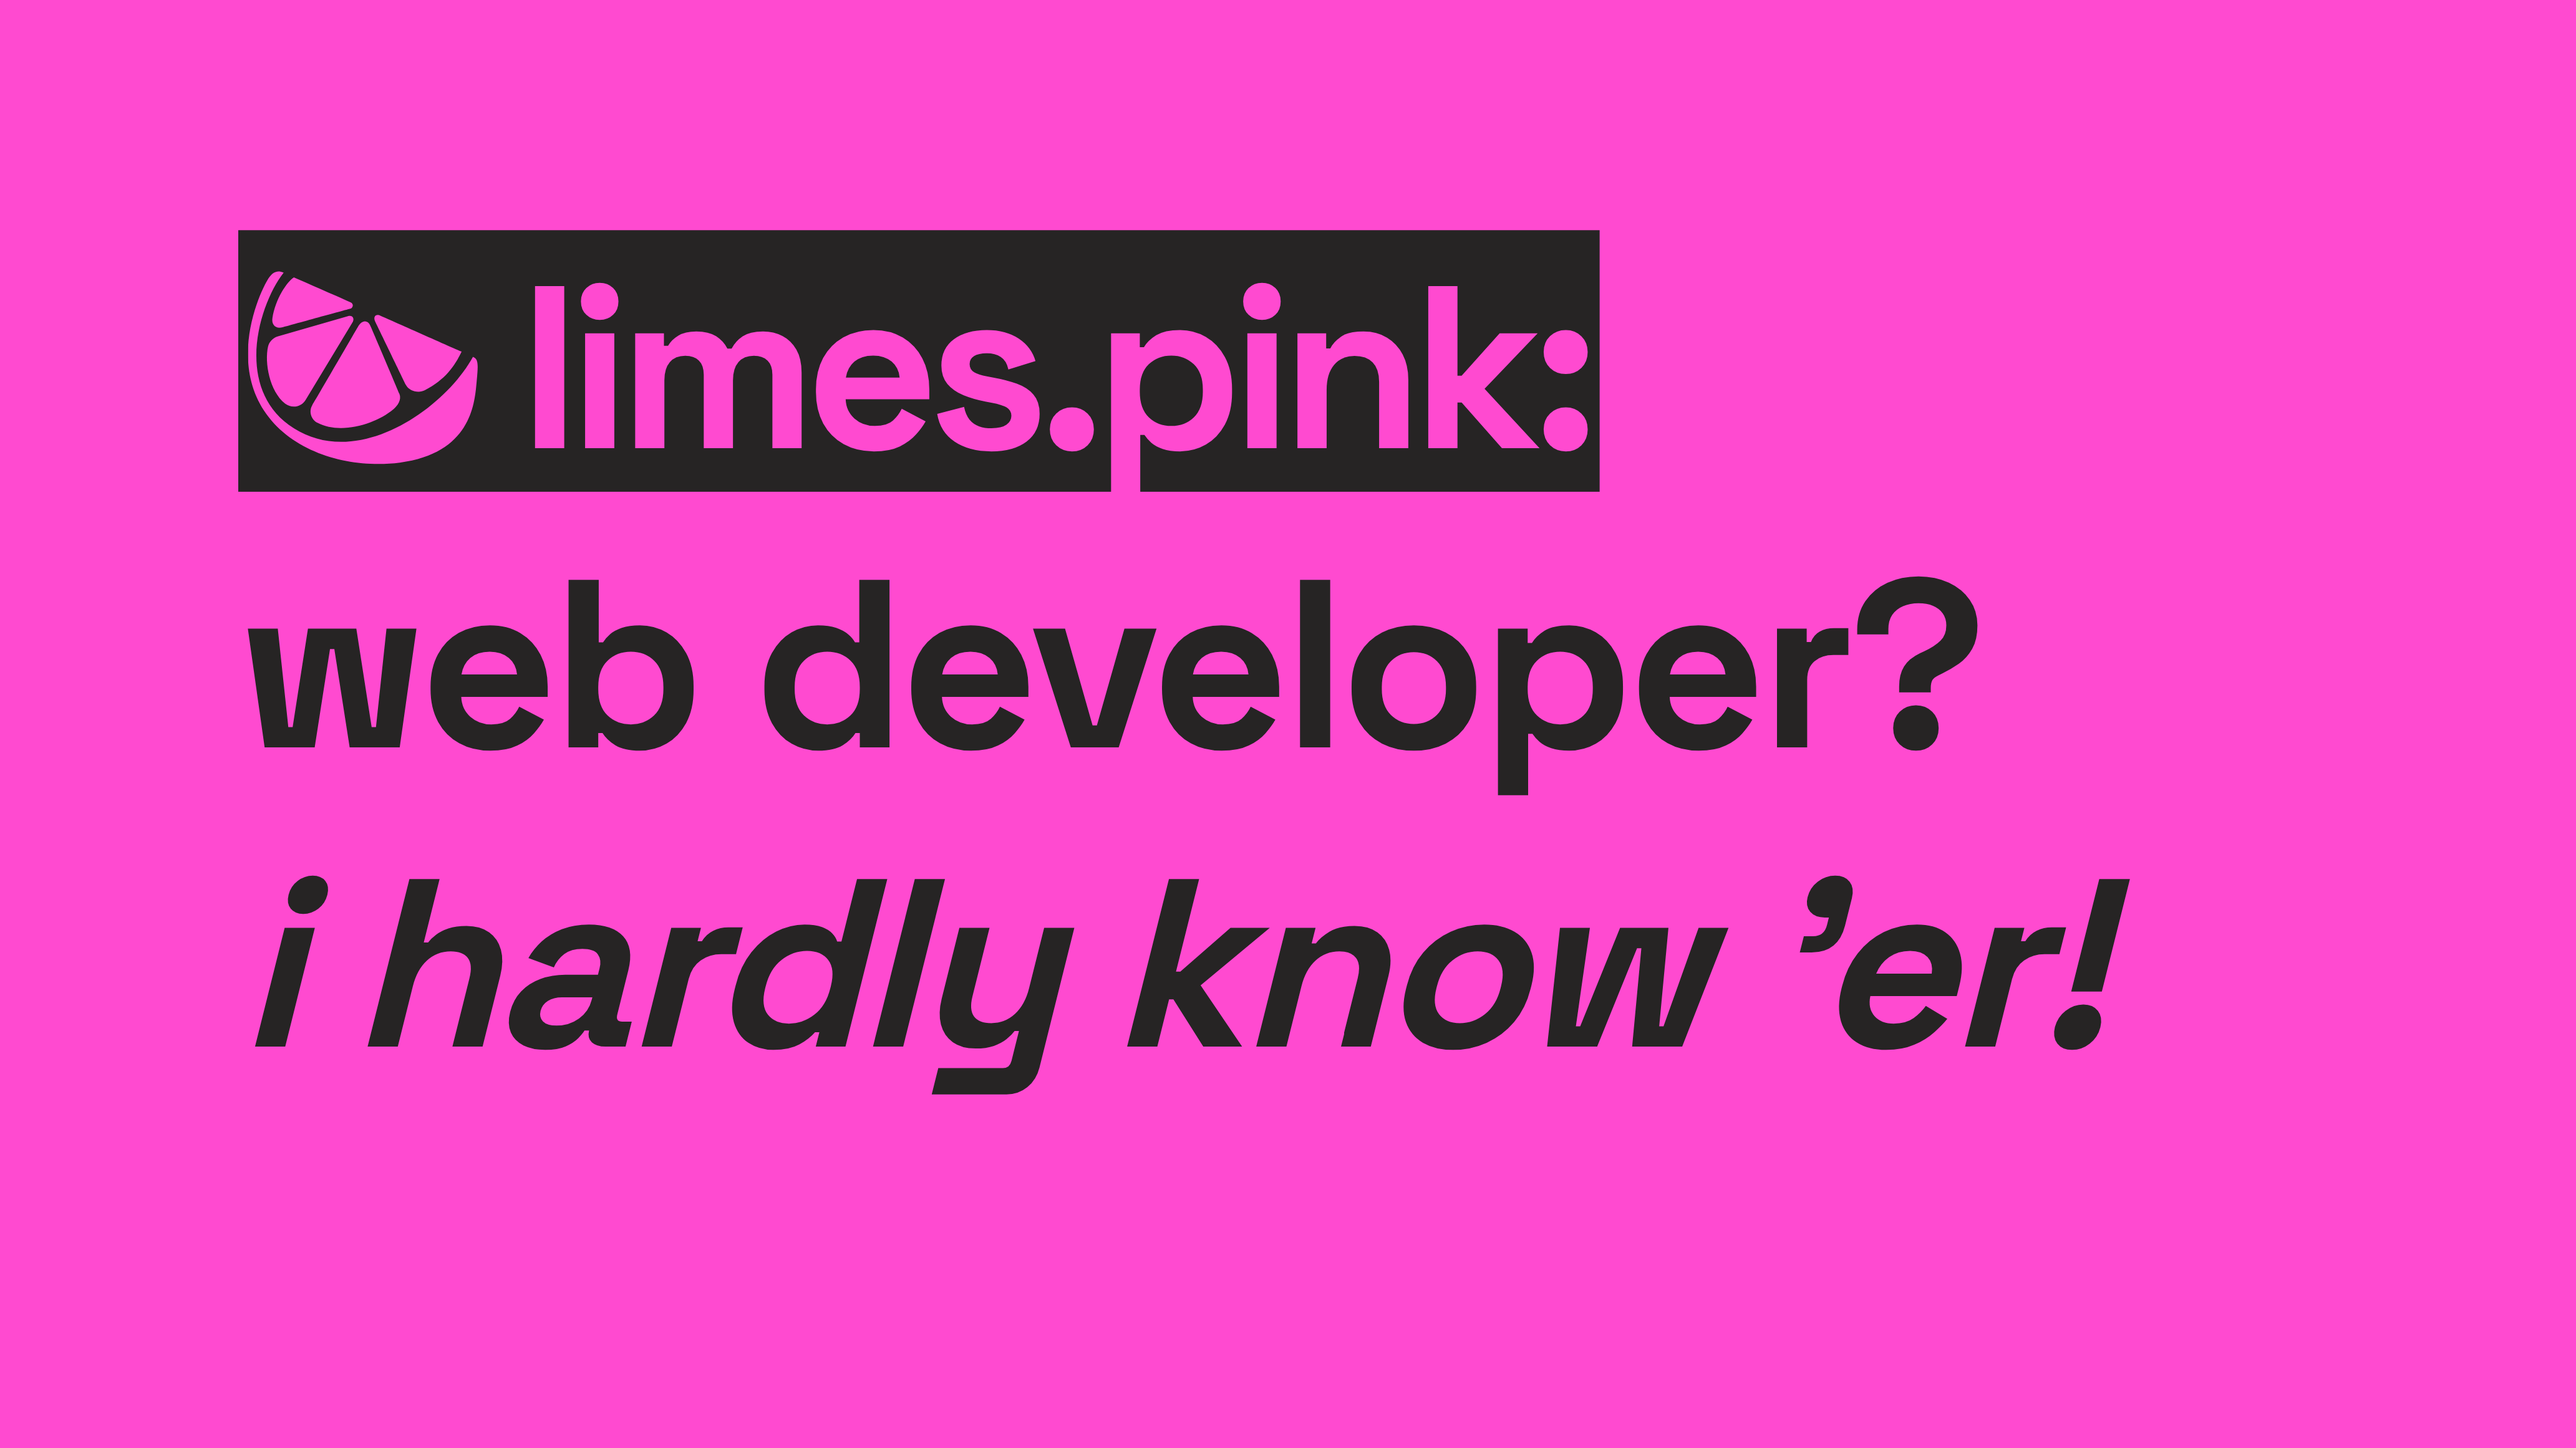
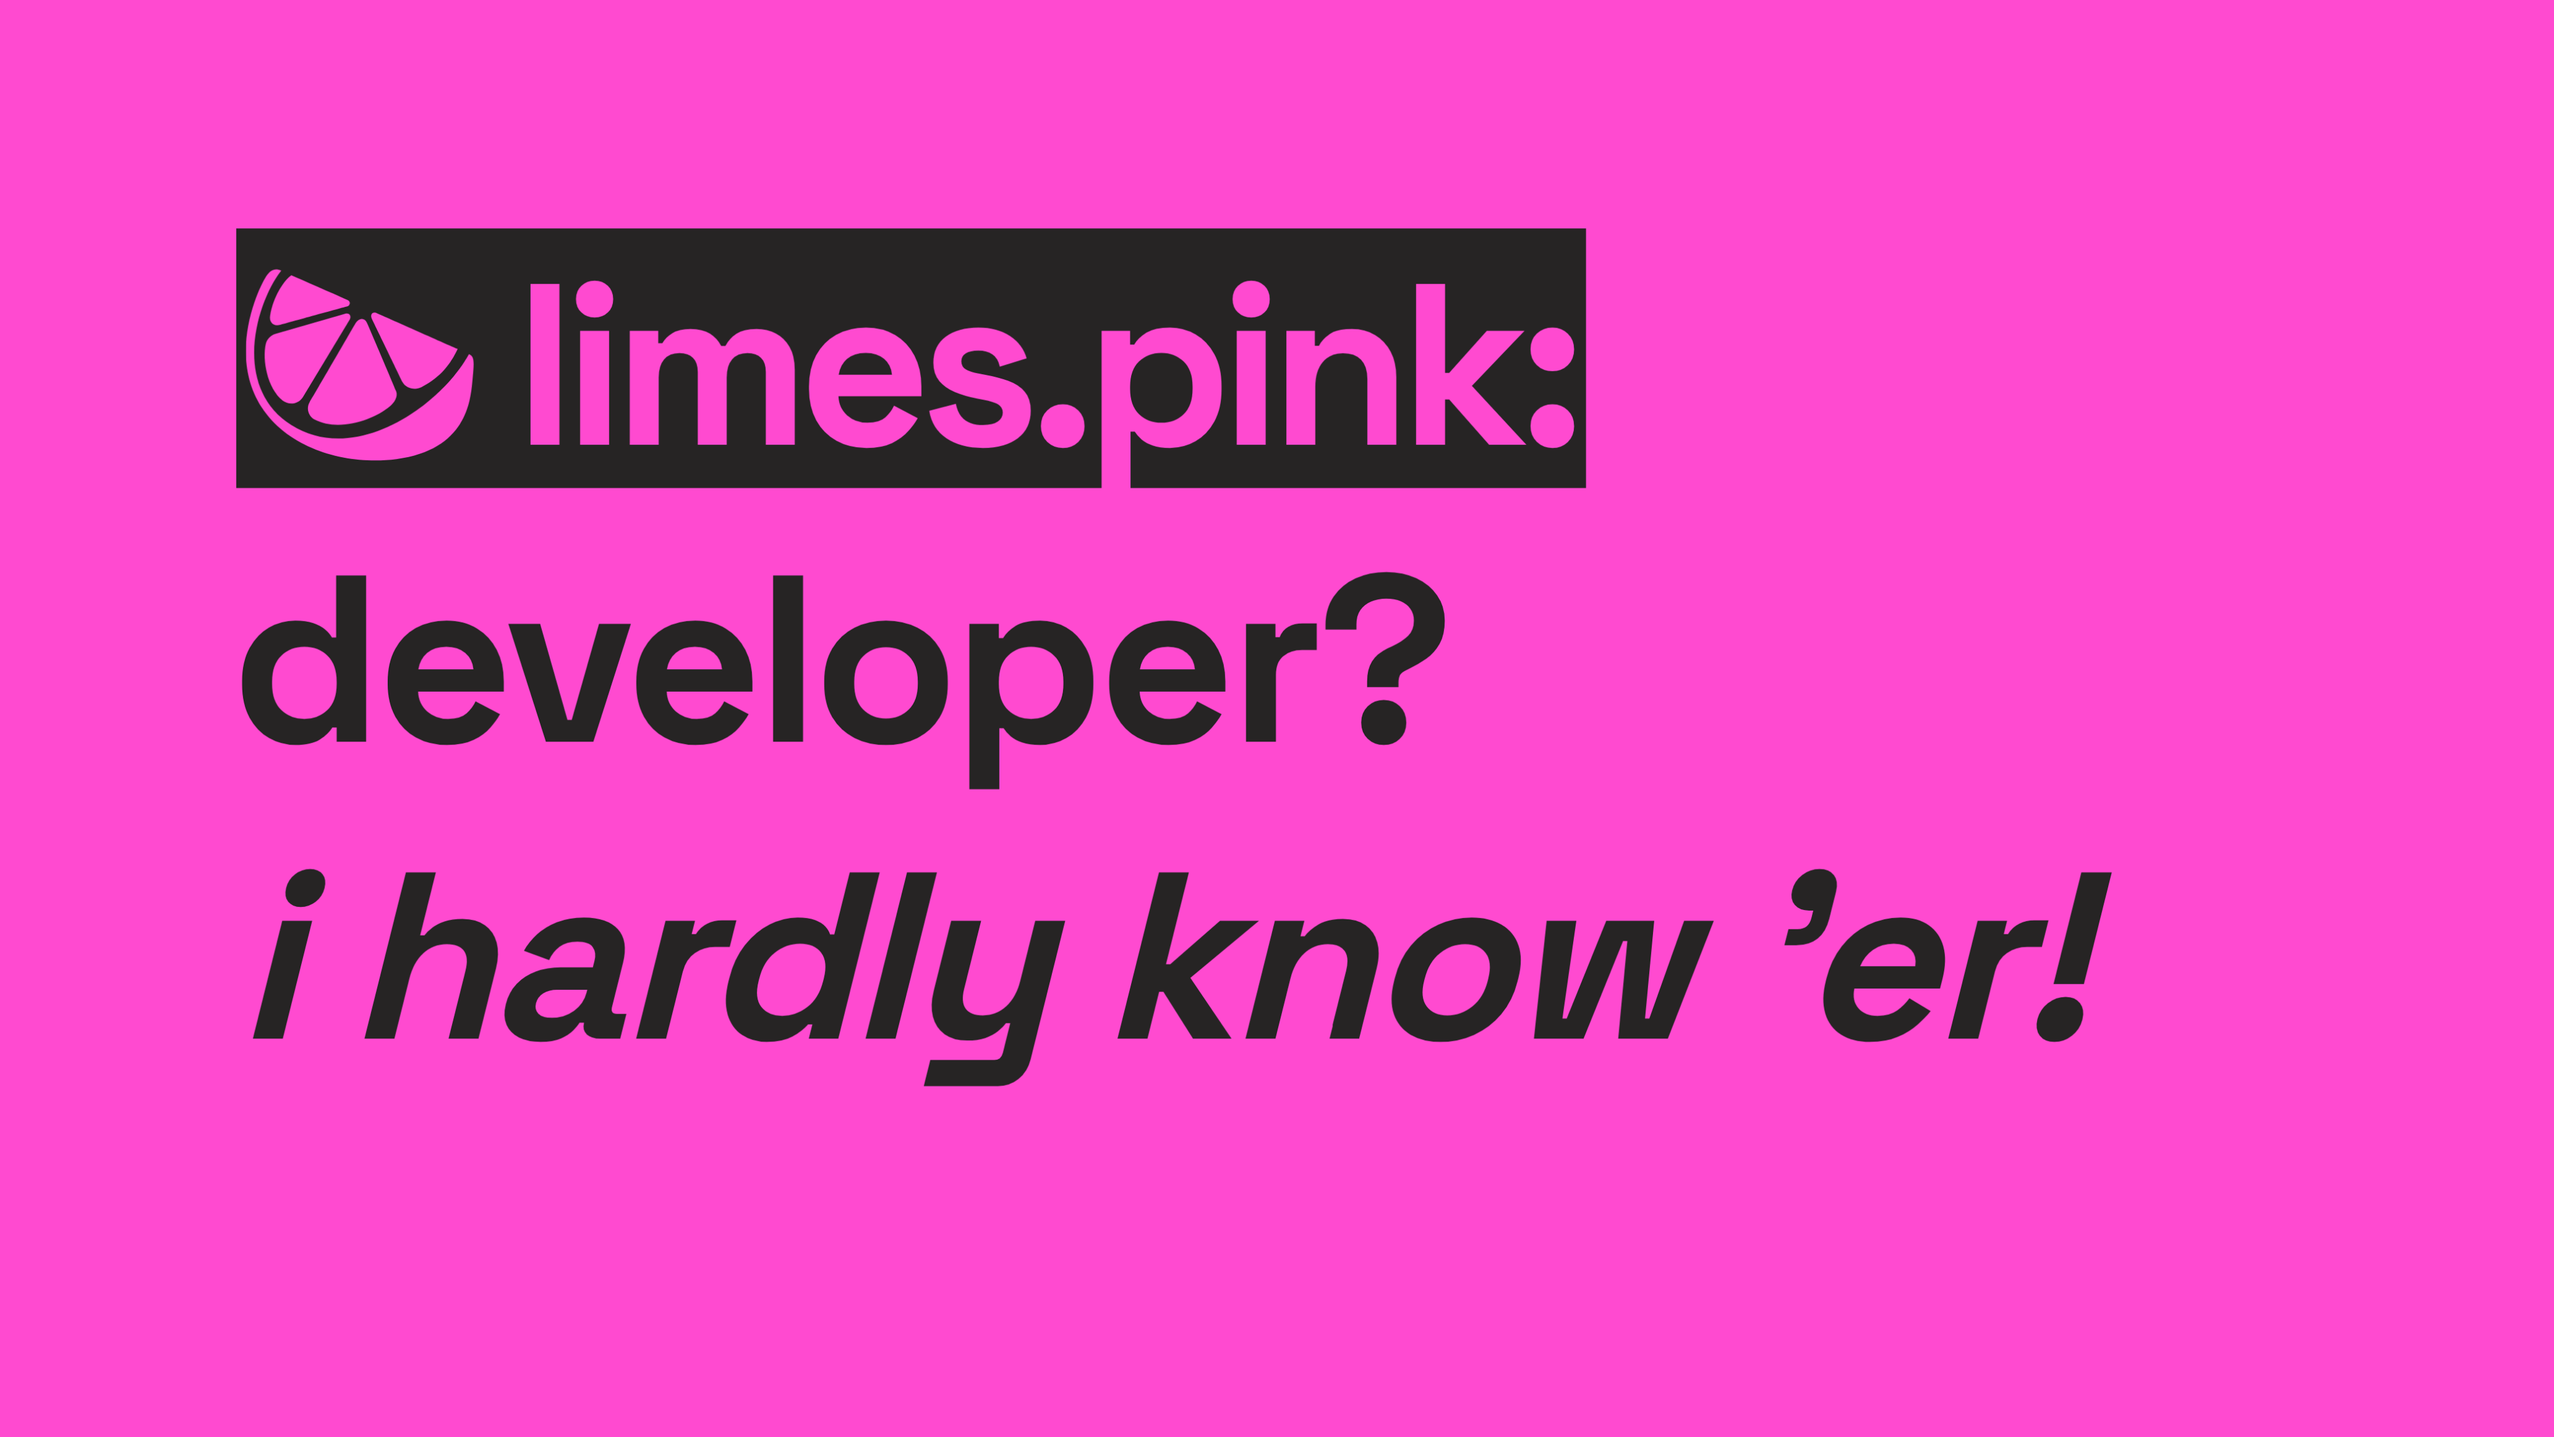
doing what the kids call ess ee oo or whatever

Changed region(s): [[0.0938, 0.375, 0.7812, 0.5625]]

diff --git a/src/routes/+page.svelte b/src/routes/+page.svelte
@@ -22,17 +22,19 @@
 </script>
 
 <svelte:head>
-	<title>limes.pink</title>
-	<meta property="og:title" content="limes.pink" />
-	<meta property="twitter:title" content="limes.pink" />
-	<meta name="description" content="developer? i hardly know 'er!" />
-	<meta property="twitter:description" content="developer? i hardly know 'er!" />
-	<meta property="og:description" content="developer? i hardly know 'er!" />
-	<meta property="og:image" content="https://limes.pink/img/social.png?v=20260209v2" />
-	<meta property="twitter:image" content="https://limes.pink/img/social.png?v=20260209v2" />
+	<title>limes.pink - developer? i hardly know 'er!</title>
+	<meta property="og:title" content="limes.pink - developer? i hardly know 'er!" />
+	<meta property="twitter:title" content="limes.pink - developer? i hardly know 'er!" />
+	<meta name="description" content="home of a buncha stuff™: discord s/i/x-seven, microsoftgithub.com, nintendo.uk.net, dcbadge, and much more!" />
+	<meta property="twitter:description" content="home of a buncha stuff™: discord s/i/x-seven, microsoftgithub.com, nintendo.uk.net, dcbadge, and much more!" />
+	<meta property="og:description" content="home of a buncha stuff™: discord s/i/x-seven, microsoftgithub.com, nintendo.uk.net, dcbadge, and much more!" />
+	<meta property="og:image" content="https://limes.pink/img/social.png?v=20260710v1" />
+	<meta property="twitter:image" content="https://limes.pink/img/social.png?v=20260710v1" />
 	<meta property="twitter:card" content="summary_large_image" />
 	<meta property="twitter:image:alt" content="" />
 	<meta property="og:image:alt" content="" />
+	<link rel="canonical" href="https://limes.pink/" />
+	<meta property="og:url" content="https://limes.pink/"/>
 </svelte:head>
 
 <div class="aniwrapper" id="aniwrapper">

diff --git a/src/routes/+error.svelte b/src/routes/+error.svelte
@@ -13,8 +13,8 @@
 	<meta property="twitter:description" content="developer? i hardly know 'er!" />
 	<meta property="og:description" content="developer? i hardly know 'er!" />
 	<meta property="og:site_name" content="limes.pink" />
-	<meta property="og:image" content="https://limes.pink/img/social.png?v=20260209v2" />
-	<meta name="twitter:image" content="https://limes.pink/img/social.png?v=20260209v2" />
+	<meta property="og:image" content="https://limes.pink/img/social.png?v=20260710v1" />
+	<meta name="twitter:image" content="https://limes.pink/img/social.png?v=20260710v1" />
 	<meta name="twitter:card" content="summary_large_image" />
 	<meta name="twitter:image:alt" content="" />
 	<meta name="og:image:alt" content="" />
@@ -23,13 +23,13 @@
 <div class="errorwrapper">
 	<a
 		href="/"
-		alt={`${m.meta_error_header()}: ${page.status}, ${page.error.message}. ${m.meta_error_message()} ${m.meta_error_button()}?`}
-		title={`${m.meta_error_header()}: ${page.status}, ${page.error.message}. ${m.meta_error_message()} ${m.meta_error_button()}?`}
+		aria-label={`${m.meta_error_header()}: ${page.status}, ${page.error!.message}. ${m.meta_error_message()} ${m.meta_error_button()}?`}
+		title={`${m.meta_error_header()}: ${page.status}, ${page.error!.message}. ${m.meta_error_message()} ${m.meta_error_button()}?`}
 	>
 		<Error
 			gameConsole="wii"
 			header={``}
-			body={`${m.meta_error_header()}: ${page.status} ${page.error.message}\n\n${m.meta_error_message()}`}
+			body={`${m.meta_error_header()}: ${page.status} ${page.error!.message}\n\n${m.meta_error_message()}`}
 			button={m.meta_error_button()}
 		/>
 	</a>

diff --git a/src/routes/errors/+page.svelte b/src/routes/errors/+page.svelte
@@ -36,11 +36,13 @@
 	<meta name="description" content={m.errors_c()} />
 	<meta property="twitter:description" content={m.errors_c()} />
 	<meta property="og:description" content={m.errors_c()} />
-	<meta property="og:image" content="https://limes.pink/img/social.png?v=20260209v2" />
-	<meta property="twitter:image" content="https://limes.pink/img/social.png?v=20260209v2" />
+	<meta property="og:image" content="https://limes.pink/img/social.png?v=20260710v1" />
+	<meta property="twitter:image" content="https://limes.pink/img/social.png?v=20260710v1" />
 	<meta property="twitter:card" content="summary_large_image" />
 	<meta property="twitter:image:alt" content="" />
 	<meta property="og:image:alt" content="" />
+		<link rel="canonical" href="https://limes.pink/errors" />
+	<meta property="og:url" content="https://limes.pink/errors" />
 </svelte:head>
 
 <div class="wrapper">

diff --git a/src/routes/s/i/x-seven/+page.svelte b/src/routes/s/i/x-seven/+page.svelte
@@ -32,6 +32,8 @@
 	<meta property="twitter:card" content="summary_large_image" />
 	<meta property="twitter:image:alt" content="" />
 	<meta property="og:image:alt" content="" />
+	<link rel="canonical" href="https://limes.pink/s/i/x-seven" />
+	<meta property="og:url" content="https://limes.pink/s/i/x-seven" />
 </svelte:head>
 
 <div class="wrapper">

diff --git a/src/routes/spinmii/+page.svelte b/src/routes/spinmii/+page.svelte
@@ -177,6 +177,8 @@
 	<meta property="twitter:card" content="summary_large_image" />
 	<meta property="twitter:image:alt" content="" />
 	<meta property="og:image:alt" content="" />
+	<link rel="canonical" href="https://limes.pink/spinmii" />
+	<meta property="og:url" content="https://limes.pink/spinmii" />
 </svelte:head>
 
 <div class="wrapper">

diff --git a/src/lib/components/home/Hero.svelte b/src/lib/components/home/Hero.svelte
@@ -13,7 +13,7 @@
 				bgColor="var(--text-on-gradient)"
 			/></span
 		><br />
-		<span>web developer?</span><br />
+		<span>developer?</span><br />
 		<span><i>i hardly know 'er!</i></span>
 	</h1>
 </div>
